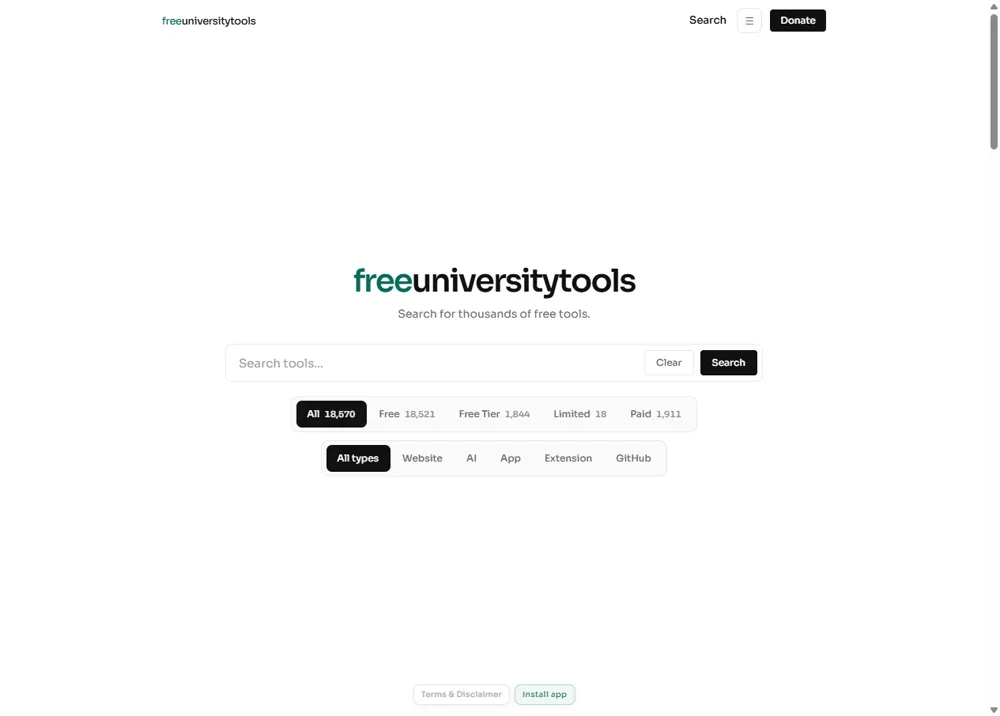
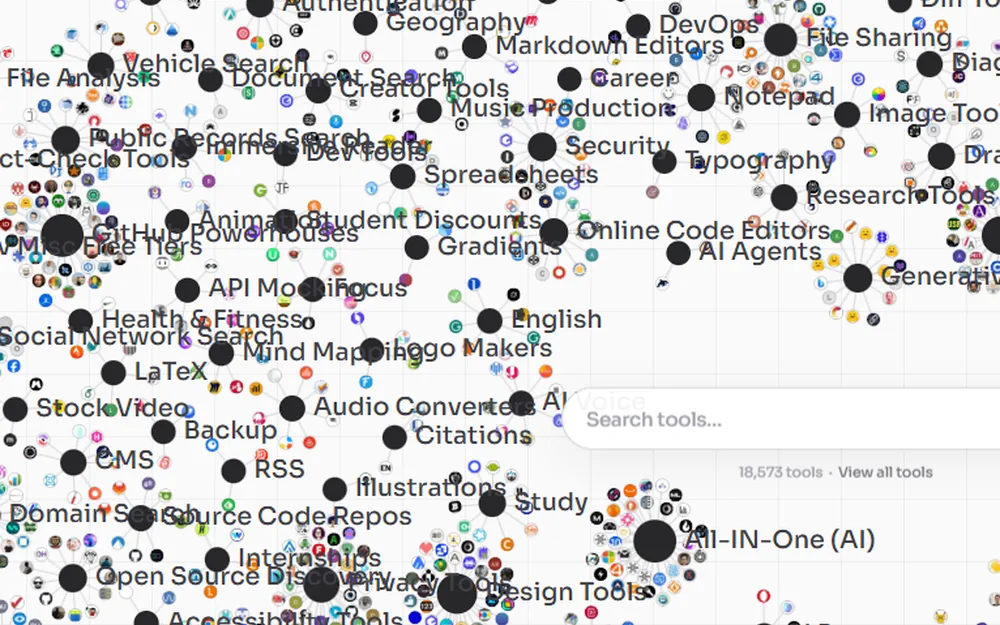
Refresh Free University Tools to match the live graph catalog.
Update the project copy and card thumbnail for the interactive 18K+ tool map.

diff --git a/js/data.js b/js/data.js
@@ -47,21 +47,21 @@ const projects = [
     href: "https://freeuniversitytools.com/",
     repo: "https://github.com/Delexoo/freeuniversitytools",
     host: "freeuniversitytools.com",
-    image: "assets/freeuniversitytools.webp",
+    image: "assets/freeuniversitytools.webp?v=2",
     icon: "assets/apps/freeuniversitytools.svg",
     tint: "#eef4f1",
     wash: "#c9ddd3",
     en: {
-      sub: "Student tool directory",
-      note: "Thousands of free apps, one search.",
-      desc: "A curated directory of free and free-tier tools for students: AI, study apps, books, courses, converters, design, productivity, and more. Search and filter by pricing or type, browse categories, or open the full student directory, no account required, and the list keeps growing through community reports.",
-      facts: ["Search & filters", "Free tools", "Open source"],
+      sub: "18K+ student tools",
+      note: "Explore free tools on a live graph.",
+      desc: "A living map of free and free-tier tools for students: AI, study apps, books, courses, converters, design, GitHub repos, and more. Search the graph, filter by AI, repos, or websites, then open any node or jump into the full directory. No account required, and the catalog keeps growing.",
+      facts: ["18,573 tools", "Interactive graph", "Open source"],
     },
     es: {
-      sub: "Directorio de herramientas",
-      note: "Miles de apps gratis, en una búsqueda.",
-      desc: "Un directorio curado de herramientas gratis y con plan gratuito para estudiantes: IA, estudio, libros, cursos, conversores, diseño, productividad y más. Busca y filtra por precio o tipo, explora categorías o abre el directorio completo, sin cuenta, y la lista crece con reportes de la comunidad.",
-      facts: ["Búsqueda", "Gratis", "Código abierto"],
+      sub: "+18K herramientas",
+      note: "Explora herramientas gratis en un grafo vivo.",
+      desc: "Un mapa vivo de herramientas gratis y de plan gratuito para estudiantes: IA, estudio, libros, cursos, conversores, diseño, repos de GitHub y más. Busca en el grafo, filtra por IA, repos o sitios web, abre cualquier nodo o entra al directorio completo. Sin cuenta, y el catálogo sigue creciendo.",
+      facts: ["18.573 herramientas", "Grafo interactivo", "Código abierto"],
     },
   },
   {

diff --git a/index.html b/index.html
@@ -103,7 +103,7 @@
   </div>
 
   <script src="js/copy.js?v=80"></script>
-  <script src="js/data.js?v=82"></script>
+  <script src="js/data.js?v=83"></script>
   <script src="js/core.js?v=71"></script>
   <script src="js/ui.js?v=93"></script>
   <script src="js/deck.js?v=70"></script>

diff --git a/README.md b/README.md
@@ -32,7 +32,7 @@ Profile content (skills, certificates, stack, and an app-style project list) sit
 |---|---|---|
 | 01 | **Mochi** | A Windows AI assistant that docks to the desktop edge: chat, music, voice and file actions, local-first. |
 | 02 | **Moonrise** | One-click AI websites for local businesses, with built-in checkout for selling them. |
-| 03 | **Free University Tools** | A curated directory of free and free-tier tools for students. |
+| 03 | **Free University Tools** | An interactive graph of 18K+ free and free-tier tools for students. |
 | 04 | **OrbINT** | An open-source reconnaissance casebook that keeps identifiers in one local case file. |
 | 05 | **MusicWidget** | A 4 MB always-on-top music player for Windows with plain-folder playlists. |
 | 06 | **GitReplay** | Replays any GitHub repository character by character, with a live HTML/CSS/JS preview. |
